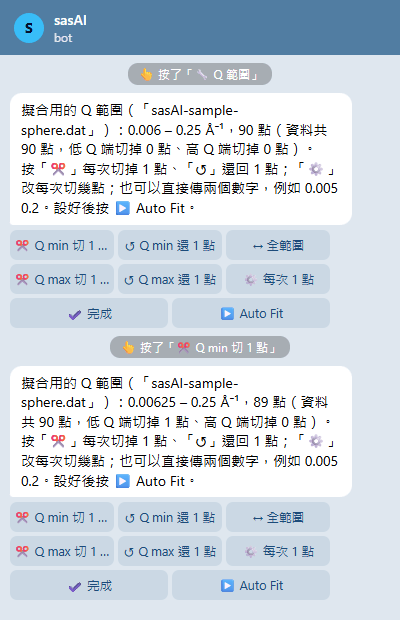
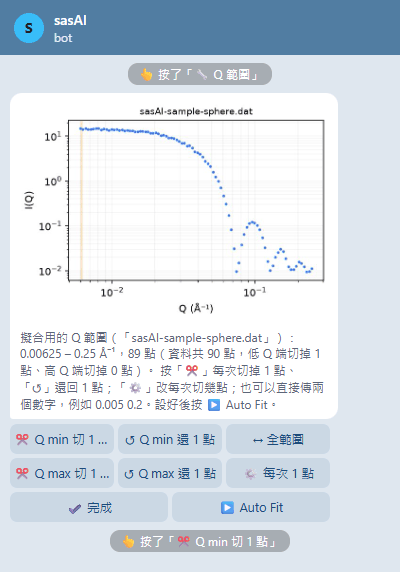
sasAI 2026-09-30d-v0.1 tester pages

diff --git a/start.html b/start.html
@@ -254,7 +254,7 @@ html.js nav.toc { display: none; }
       <tr><td class="num"><span class="m">2</span></td><td class="k" lang="en">↻ Restart</td><td class="k" lang="zh-Hant">↻ Restart</td><td lang="en">Clear everything and start a new sample.</td><td lang="zh-Hant">全部清掉，換一個新樣品。</td></tr>
       <tr><td class="num"><span class="m">3</span></td><td class="k" lang="en" data-tabs="left_tabs">Batch · AI Config · Report · 🔑 Keys</td><td class="k" lang="zh-Hant" data-tabs="left_tabs">Batch · AI Config · Report · 🔑 Keys</td><td lang="en"><b class="ui">Batch</b>: the files you loaded. When you click Auto-Fit, the ticked files are fitted: one ticked file is a normal fit, several are a batch. <b class="ui">AI Config</b>: settings for the AI, voice and Telegram. <b class="ui">Report</b>: write and save the report. <b class="ui">Keys</b>: API keys and tokens, kept only on this computer.</td><td lang="zh-Hant"><b class="ui">Batch</b>：你載入的檔案。按 Auto-Fit 時，會擬合打勾的檔案：只勾一個是一般擬合，勾多個就是批次。<b class="ui">AI Config</b>：AI、語音和 Telegram 的設定。<b class="ui">Report</b>：產生並儲存報告。<b class="ui">Keys</b>：API 金鑰和 Token，只存在這台電腦。</td></tr>
       <tr><td class="num"><span class="m">4</span></td><td class="k" lang="en">AI:</td><td class="k" lang="zh-Hant">AI:</td><td lang="en">Which AI answers. <b class="ui">Built-in</b> is the AI on your own computer. Under it: <b class="ui">SAS Model</b> (the model sasAI chose) and <b class="ui">chi2</b> (how closely it fits — near 1 is best).</td><td lang="zh-Hant">由哪個 AI 回答。<b class="ui">Built-in</b> 就是你自己電腦上的 AI。下面的 <b class="ui">SAS Model</b> 是 sasAI 選的模型，<b class="ui">chi2</b> 是擬合的好壞（越接近 1 越好）。</td></tr>
-      <tr><td class="num"><span class="m">5</span></td><td class="k" lang="en" data-tabs="plot_tabs">I(Q) / Fit · P(r) · 3D</td><td class="k" lang="zh-Hant" data-tabs="plot_tabs">I(Q) / Fit · P(r) · 3D</td><td lang="en">The plot: your data (dots) and the fitted model (line). The <b class="ui">P(r)</b> tab shows the distance distribution. The <b class="ui">3D</b> tab (chapter 11) appears only in a copy whose 3D model has passed its accuracy test.</td><td lang="zh-Hant">圖：你的數據（點）和擬合出的模型（線）。<b class="ui">P(r)</b> 分頁顯示距離分布。<b class="ui">3D</b> 分頁（第 11 章）只在 3D 模型通過準確度測試的版本裡出現。</td></tr>
+      <tr><td class="num"><span class="m">5</span></td><td class="k" lang="en" data-tabs="plot_tabs">I(Q) / Fit · P(r) · 3D</td><td class="k" lang="zh-Hant" data-tabs="plot_tabs">I(Q) / Fit · P(r) · 3D</td><td lang="en">The plot: your data (dots) and the fitted model (line). The <b class="ui">P(r)</b> tab shows the distance distribution. The <b class="ui">3D</b> tab (chapter 11) is a preview in this beta: it has not yet passed its accuracy test.</td><td lang="zh-Hant">圖：你的數據（點）和擬合出的模型（線）。<b class="ui">P(r)</b> 分頁顯示距離分布。<b class="ui">3D</b> 分頁（第 11 章）是這個封測版的預覽功能：還沒通過準確度測試。</td></tr>
       <tr><td class="num"><span class="m">6</span></td><td class="k" lang="en">▶ Auto-Fit</td><td class="k" lang="zh-Hant">▶ Auto-Fit</td><td lang="en">The main button: sasAI picks a model and fits it for you. <b>&gt;&gt; RUN FIT</b> fits a model you chose yourself, <b class="ui">STOP</b> stops. The same row also has <b class="ui">Web Search</b> (a switch: may sasAI use the internet?), <b class="ui">Compute/Plot</b> (draw a model without fitting) and <b class="ui">Export</b> (save results as CSV, DAT or JSON).</td><td lang="zh-Hant">最主要的按鈕：sasAI 幫你選模型、做擬合。<b>&gt;&gt; RUN FIT</b> 用你自己選的模型擬合，<b class="ui">STOP</b> 停止。同一列還有 <b class="ui">Web Search</b>（開關：sasAI 可不可以上網）、<b class="ui">Compute/Plot</b>（只畫模型、不擬合）和 <b class="ui">Export</b>（把結果存成 CSV、DAT 或 JSON）。</td></tr>
       <tr><td class="num"><span class="m">7</span></td><td class="k" lang="en" data-tabs="fit_tabs">Model · Fit Options · Polydispersity · Magnetism · Combine Models</td><td class="k" lang="zh-Hant" data-tabs="fit_tabs">Model · Fit Options · Polydispersity · Magnetism · Combine Models</td><td lang="en">Choose and adjust a model by hand — for experienced users.</td><td lang="zh-Hant">自己選模型、調參數——給有經驗的使用者。</td></tr>
       <tr><td class="num"><span class="m">8</span></td><td class="k" lang="en" data-tabs="right_tabs">Flow · S-EVO · KB · Refs · Display · Fit Log</td><td class="k" lang="zh-Hant" data-tabs="right_tabs">Flow · S-EVO · KB · Refs · Display · Fit Log</td><td lang="en"><b class="ui">Flow</b>: the analysis stages, live. <b class="ui">S-EVO</b>: sasAI's growing knowledge library. <b>KB</b>: your past fits. <b class="ui">Refs</b>: literature for this sample. <b class="ui">Display</b>: font sizes. <b class="ui">Fit Log</b>: every fitting step. The row of tabs scrolls: use its small arrows to reach the last ones.</td><td lang="zh-Hant"><b class="ui">Flow</b>：分析各階段的即時進度。<b class="ui">S-EVO</b>：sasAI 越用越豐富的知識庫。<b>KB</b>：你過去的擬合。<b class="ui">Refs</b>：這個樣品的相關文獻。<b class="ui">Display</b>：字體大小。<b class="ui">Fit Log</b>：每一步擬合的紀錄。這一排分頁可以捲動，用旁邊的小箭頭切到最後幾個。</td></tr>
@@ -506,8 +506,8 @@ html.js nav.toc { display: none; }
     <h3 class="part" lang="en">Analyze data from your phone: step by step</h3><h3 class="part" lang="zh-Hant">用手機分析數據：一步一步來</h3>
     <table class="keys prov">
       <tr><td class="k" lang="en">1. Send the data file</td><td class="k" lang="zh-Hant">1. 傳數據檔</td><td lang="en">In the bot's chat tap <b>📎</b> → <b>File</b> and send your data file (on Android see “Sending the data file from an Android phone” above). sasAI answers <i>“✅ Loaded “name” (90 pts) into Batch. What next?”</i> with buttons.</td><td lang="zh-Hant">在機器人的聊天室點 <b>📎</b> → <b>檔案</b>，傳你的數據檔（Android 手機請看上面的「用 Android 手機傳數據檔」）。sasAI 會回「<i>已載入「檔名」（90 點）到 Batch。接下來要做什麼？</i>」，下面有按鈕。</td></tr>
-      <tr><td class="k" lang="en">2. Optional: set the fitting q range</td><td class="k" lang="zh-Hant">2. 選擇性：設定擬合的 Q 範圍</td><td lang="en">Tap <b>📈 I(Q) plot</b> first: before any fit it sends the data itself and, if the program sees a part that should be left out (a beamstop shadow at low q, Bragg peaks or a background upturn at high q), shades it, says why and offers <b>✅ Use the suggested range</b>. To set it yourself tap <b>🔧 Q range</b>. It shows the window the fit will use, how many points that is and how many were cut at each end. <b>✂ Q min</b> / <b>✂ Q max</b> cut points off that end, <b>↺</b> gives them back, <b>⚙</b> chooses how many points one tap moves, <b>↔ Full range</b> restores everything. Or send two numbers such as <code>0.005 0.2</code>.</td><td lang="zh-Hant">先按 <b>📈 I(Q) 圖</b>：還沒擬合時，它會傳數據本身的圖；如果程式看到應該排除的範圍（低 Q 的 beamstop 陰影、高 Q 的繞射峰或背景回升），會塗上顏色、說明原因，並給你 <b>✅ 套用建議的範圍</b>。要自己設就點 <b>🔧 Q 範圍</b>。它會顯示這次擬合要用的範圍、有幾個點、兩端各切掉幾點。<b>✂ Q min</b>／<b>✂ Q max</b> 把那一端切掉幾點，<b>↺</b> 還回來，<b>⚙</b> 選每按一次動幾點，<b>↔ 全範圍</b> 全部還原。也可以直接傳兩個數字，例如 <code>0.005 0.2</code>。</td></tr>
-      <tr><td class="k" lang="en">3. Tap ▶ Auto Fit</td><td class="k" lang="zh-Hant">3. 按 ▶ Auto Fit</td><td lang="en">If sasAI does not yet know what the sample is, it asks once: <i>“Before we start, briefly describe the sample (material, expected structure, what you want to know)?”</i> Answer in one sentence, for example <i>carbon powder, I want the particle size</i>. Then it starts: <i>“On it — analyzing “name”. One moment ⏳”</i>.</td><td lang="zh-Hant">如果 sasAI 還不知道樣品是什麼，會問你一次：「<i>開始前，請簡短描述這個樣品（材料、預期結構、你想知道什麼）？</i>」用一句話回答，例如「碳粉末，我想知道粒徑」。接著它會開始：「<i>好的，我開始自動分析「檔名」，稍等一下下 ⏳</i>」。</td></tr>
+      <tr><td class="k" lang="en">2. Optional: set the fitting q range</td><td class="k" lang="zh-Hant">2. 選擇性：設定擬合的 Q 範圍</td><td lang="en">Tap <b>📈 I(Q) plot</b> first: before any fit it sends the data itself and, if the program sees a part that should be left out (a beamstop shadow at low q, Bragg peaks or a background upturn at high q), shades it, says why and offers <b>✅ Use the suggested range</b>. To set it yourself tap <b>🔧 Q range</b>. It shows the window the fit will use, how many points that is and how many were cut at each end. <b>✂ Q min</b> / <b>✂ Q max</b> cut points off that end, <b>↺</b> gives them back, <b>⚙</b> chooses how many points one tap moves, <b>↔ Full range</b> restores everything. Or send two numbers such as <code>0.005 0.2</code>. If you do not choose a range at all, ▶ Auto Fit uses the one the program itself would fit (it cuts a beamstop shadow, Bragg peaks or a background upturn) and tells you what it cut.</td><td lang="zh-Hant">先按 <b>📈 I(Q) 圖</b>：還沒擬合時，它會傳數據本身的圖；如果程式看到應該排除的範圍（低 Q 的 beamstop 陰影、高 Q 的繞射峰或背景回升），會塗上顏色、說明原因，並給你 <b>✅ 套用建議的範圍</b>。要自己設就點 <b>🔧 Q 範圍</b>。它會顯示這次擬合要用的範圍、有幾個點、兩端各切掉幾點。<b>✂ Q min</b>／<b>✂ Q max</b> 把那一端切掉幾點，<b>↺</b> 還回來，<b>⚙</b> 選每按一次動幾點，<b>↔ 全範圍</b> 全部還原。也可以直接傳兩個數字，例如 <code>0.005 0.2</code>。如果你完全沒選範圍，▶ Auto Fit 會用程式自己會用的那個範圍（切掉 beamstop 陰影、繞射峰或背景回升），並告訴你切了哪裡。</td></tr>
+      <tr><td class="k" lang="en">3. Tap ▶ Auto Fit</td><td class="k" lang="zh-Hant">3. 按 ▶ Auto Fit</td><td lang="en">If sasAI does not yet know what the sample is, it asks once: <i>“Before we start, briefly describe the sample (material, expected structure, what you want to know)?”</i> Answer in one sentence, for example <i>carbon powder, I want the particle size</i>. If the file does not say whether its intensity is on an absolute scale (1/cm) or in arbitrary units, it asks once with buttons (absolute / arbitrary / not sure) — the answer decides whether volume fraction and molecular weight can be computed. Then it starts: <i>“On it — analyzing “name”. One moment ⏳”</i>.</td><td lang="zh-Hant">如果 sasAI 還不知道樣品是什麼，會問你一次：「<i>開始前，請簡短描述這個樣品（材料、預期結構、你想知道什麼）？</i>」用一句話回答，例如「碳粉末，我想知道粒徑」。如果檔案沒有寫強度是絕對強度（1/cm）還是任意單位，它會用按鈕問一次（絕對強度／任意單位／不確定）——答案決定能不能算體積分率和分子量。接著它會開始：「<i>好的，我開始自動分析「檔名」，稍等一下下 ⏳</i>」。</td></tr>
       <tr><td class="k" lang="en">4. Watch the progress line</td><td class="k" lang="zh-Hant">4. 看進度那一行</td><td lang="en">While it works, one line is edited in place with the stage and the time so far, for example <i>“⏳ fitting… (1:05 so far)”</i>, and at the end <i>“✅ Analysis done (2:10)”</i>. Tap <b>⏳ Progress</b> for the details, <b>📸 Current view</b> to see what is on the computer's screen right now (while something is running it is a short animation of about ten seconds), or <b>⏹ Stop</b> (or send <code>/stop</code>) to end it. A fit usually takes a few minutes.</td><td lang="zh-Hant">分析時，有一行訊息會原地更新階段和已經花的時間，例如「<i>⏳ 擬合中…（已 1:05）</i>」，結束時變成「<i>✅ 分析完成（用時 2:10）</i>」。按 <b>⏳ 目前進度</b> 看細節，按 <b>📸 目前畫面</b> 看電腦螢幕上現在的圖（有東西在跑的時候，傳來的是大約十秒的小動畫），按 <b>⏹ 停止</b>（或送出 <code>/stop</code>）可以中止。一次擬合通常要幾分鐘。</td></tr>
       <tr><td class="k" lang="en">5. Read the result</td><td class="k" lang="zh-Hant">5. 讀結果</td><td lang="en">The result message starts with the <b>bottom line</b>. If the data gave an answer it says what it can answer. If not, it says so plainly, then <b>Why</b> (in plain words) and <b>What would help</b>. After that come the model with how good the fit is (<i>a good fit / an acceptable fit / a poor fit</i>, with the reduced χ²) and the measurement warnings, which are listed but do not change the conclusion.</td><td lang="zh-Hant">結果訊息的第一行是<b>結論</b>。資料有答案時，它會說能回答什麼；沒有就直說沒有，接著是<b>原因</b>（用白話）和<b>怎麼辦</b>。後面是模型和擬合好壞（<i>擬合得很好／擬合尚可／擬合偏差大</i>，附 reduced χ²），再來是量測條件提醒——它們只是列出來，不會改變結論。</td></tr>
       <tr><td class="k" lang="en">6. Ask for more</td><td class="k" lang="zh-Hant">6. 再看更多</td><td lang="en">Under the result are buttons: <b>📋 Results</b> (the message again), <b>📈 I(Q) plot</b> and <b>📉 P(r) plot</b> (sent as pictures; the P(r) one only appears when the data supports it), <b>📄 Fit report</b> (a PDF file), <b>🔧 Q range</b> to change the window and fit again with <b>▶ Auto Fit</b>. <b>🧊 3D Shape</b> appears only in a build that has it and only when a radius of gyration could be read from the data; it first asks how many runs (1 to 9): one run is the fastest, and from two runs on the runs can be compared with each other.</td><td lang="zh-Hant">結果下面有按鈕：<b>📋 數據結果</b>（再看一次這則訊息）、<b>📈 I(Q) 圖</b>和<b>📉 P(r) 圖</b>（以圖片傳來；P(r) 要資料撐得起才有）、<b>📄 擬合報告</b>（一個 PDF 檔）、<b>🔧 Q 範圍</b>改範圍後再按 <b>▶ Auto Fit</b> 重新擬合。<b>🧊 3D Shape</b> 只有在這個版本有開放、而且資料讀得出迴轉半徑時才會出現；按了會先問要跑幾次（1 到 9）：1 次最快，2 次以上才能比較各次之間是否一致。</td></tr>
@@ -517,11 +517,11 @@ html.js nav.toc { display: none; }
     <div class="phones"><figure><div class="shot"><a class="zoom" lang="en" href="img/tg-upload-en.png" target="_blank" rel="noopener noreferrer"><img src="img/tg-upload-en.png" width="400" height="332" alt="Telegram: the data file sent, sasAI's 'Loaded' reply and the first buttons" loading="lazy"></a><a class="zoom" lang="zh-Hant" href="img/tg-upload-zh-Hant.png" target="_blank" rel="noopener noreferrer"><img src="img/tg-upload-zh-Hant.png" width="400" height="332" alt="Telegram：傳出數據檔、sasAI 回「已載入」和第一排按鈕" loading="lazy"></a></div><figcaption lang="en"><b>1 · Upload.</b> Tap 📎 → <b>File</b> and send your data file. sasAI replies that it is loaded and shows the buttons for what you can do next. The same buttons come back whenever you send <code>/menu</code>.</figcaption><figcaption lang="zh-Hant"><b>1 · 上傳。</b>點 📎 → <b>檔案</b>，把數據檔傳出去。sasAI 回「已載入」，下面就是接下來能做的事的按鈕。任何時候送出 <code>/menu</code>，同一組按鈕就會再出現。</figcaption></figure>
 <figure><div class="shot"><a class="zoom" lang="en" href="img/tg-menu-en.png" target="_blank" rel="noopener noreferrer"><img src="img/tg-menu-en.png" width="400" height="332" alt="Telegram: /menu brings the buttons back" loading="lazy"></a><a class="zoom" lang="zh-Hant" href="img/tg-menu-zh-Hant.png" target="_blank" rel="noopener noreferrer"><img src="img/tg-menu-zh-Hant.png" width="400" height="332" alt="Telegram：/menu 叫出按鈕" loading="lazy"></a></div><figcaption lang="en"><b>2 · The menu.</b> Type <code>/menu</code> (or pick it from Telegram's ☰ command list) — the buttons that fit the current state appear under the message.</figcaption><figcaption lang="zh-Hant"><b>2 · 選單。</b>打 <code>/menu</code>（或從 Telegram 的 ☰ 指令清單選）——符合目前狀態的按鈕就出現在訊息下面。</figcaption></figure>
 <figure><div class="shot"><a class="zoom" lang="en" href="img/tg-iq-data-en.png" target="_blank" rel="noopener noreferrer"><img src="img/tg-iq-data-en.png" width="400" height="614" alt="Telegram: the I(Q) picture before any fit, with the suggested q range" loading="lazy"></a><a class="zoom" lang="zh-Hant" href="img/tg-iq-data-zh-Hant.png" target="_blank" rel="noopener noreferrer"><img src="img/tg-iq-data-zh-Hant.png" width="400" height="595" alt="Telegram：還沒擬合時的 I(Q) 圖和建議的 Q 範圍" loading="lazy"></a></div><figcaption lang="en"><b>3 · Look at the data first.</b> 📈 <b>I(Q) plot</b> before any fit sends the data itself and says whether part of it should be left out (a beamstop shadow, Bragg peaks). Here nothing needs cutting.</figcaption><figcaption lang="zh-Hant"><b>3 · 先看數據。</b>還沒擬合時按 📈 <b>I(Q) 圖</b>，它把數據本身傳給你，並說有沒有該切掉的範圍（beamstop 陰影、繞射峰）。這份不用切。</figcaption></figure>
-<figure><div class="shot"><a class="zoom" lang="en" href="img/tg-qrange-en.png" target="_blank" rel="noopener noreferrer"><img src="img/tg-qrange-en.png" width="400" height="620" alt="Telegram: the Q range panel; one tap on ✂ Q min cut one point" loading="lazy"></a><a class="zoom" lang="zh-Hant" href="img/tg-qrange-zh-Hant.png" target="_blank" rel="noopener noreferrer"><img src="img/tg-qrange-zh-Hant.png" width="400" height="620" alt="Telegram：Q 範圍面板；按一下 ✂ Q min 切掉了 1 點" loading="lazy"></a></div><figcaption lang="en"><b>4 · Change the q range.</b> 🔧 <b>Q range</b> shows the window the fit will use. Each ✂ tap cuts points off that end (↺ gives them back), ⚙ changes how many points one tap moves, ↔ restores the whole range. Or send two numbers such as <code>0.005 0.2</code>. The second message is after one tap on ✂ Q min.</figcaption><figcaption lang="zh-Hant"><b>4 · 改 Q 範圍。</b>🔧 <b>Q 範圍</b> 顯示擬合會用的範圍。每按一次 ✂ 就從那一端切掉幾點（↺ 還回去），⚙ 改每次切幾點，↔ 回到全範圍；也可以直接傳兩個數字，例如 <code>0.005 0.2</code>。第二則是按了一次 ✂ Q min 之後的樣子。</figcaption></figure>
-<figure><div class="shot"><a class="zoom" lang="en" href="img/tg-progress-en.png" target="_blank" rel="noopener noreferrer"><img src="img/tg-progress-en.png" width="400" height="454" alt="Telegram: the start message with the q window, and the progress line" loading="lazy"></a><a class="zoom" lang="zh-Hant" href="img/tg-progress-zh-Hant.png" target="_blank" rel="noopener noreferrer"><img src="img/tg-progress-zh-Hant.png" width="400" height="473" alt="Telegram：開始訊息（含 Q 範圍）和進度那一行" loading="lazy"></a></div><figcaption lang="en"><b>5 · Auto Fit.</b> ▶ <b>Auto Fit</b> starts the analysis. The first message states the q window in use (including the points you cut); below it one line keeps updating in place with the stage, the candidate models done, the best so far, the lowest χ² of the fits running and the time. No pictures are pushed while it runs; tap 📸 Current view to see the screen.</figcaption><figcaption lang="zh-Hant"><b>5 · Auto Fit。</b>▶ <b>Auto Fit</b> 開始分析。第一則寫出這次用的 Q 範圍（包括你切掉的點）；它下面那一行會原地一直更新：階段、做完幾個候選模型、目前最好的是哪個、正在跑的擬合目前最低的 χ²、已用時間。跑的時候不會推圖；想看畫面就按 📸 目前畫面。</figcaption></figure>
+<figure><div class="shot"><a class="zoom" lang="en" href="img/tg-qrange-en.png" target="_blank" rel="noopener noreferrer"><img src="img/tg-qrange-en.png" width="400" height="620" alt="Telegram: the Q range panel; one tap on ✂ Q min cut one point" loading="lazy"></a><a class="zoom" lang="zh-Hant" href="img/tg-qrange-zh-Hant.png" target="_blank" rel="noopener noreferrer"><img src="img/tg-qrange-zh-Hant.png" width="400" height="620" alt="Telegram：Q 範圍面板；按一下 ✂ Q min 切掉了 1 點" loading="lazy"></a></div><figcaption lang="en"><b>4 · Change the q range.</b> 🔧 <b>Q range</b> shows the window the fit will use. Each ✂ tap cuts points off that end (↺ gives them back), ⚙ changes how many points one tap moves, ↔ restores the whole range. Or send two numbers such as <code>0.005 0.2</code>. It is ONE message: the data with the part that will be left out shaded, the window in words and the buttons. Every tap on a button updates that same message, so you see the shading move. The picture is after one tap on ✂ Q min.</figcaption><figcaption lang="zh-Hant"><b>4 · 改 Q 範圍。</b>🔧 <b>Q 範圍</b> 顯示擬合會用的範圍。每按一次 ✂ 就從那一端切掉幾點（↺ 還回去），⚙ 改每次切幾點，↔ 回到全範圍；也可以直接傳兩個數字，例如 <code>0.005 0.2</code>。它是同一則訊息：數據圖、將被切掉的部分塗了色、文字說明和按鈕都在裡面；每按一次按鈕，就原地更新這一則，你直接看到塗色範圍在動。這張是按了一次 ✂ Q min 之後的樣子。</figcaption></figure>
+<figure><div class="shot"><a class="zoom" lang="en" href="img/tg-progress-en.png" target="_blank" rel="noopener noreferrer"><img src="img/tg-progress-en.png" width="400" height="454" alt="Telegram: the start message with the q window, and the progress line" loading="lazy"></a><a class="zoom" lang="zh-Hant" href="img/tg-progress-zh-Hant.png" target="_blank" rel="noopener noreferrer"><img src="img/tg-progress-zh-Hant.png" width="400" height="473" alt="Telegram：開始訊息（含 Q 範圍）和進度那一行" loading="lazy"></a></div><figcaption lang="en"><b>5 · Auto Fit.</b> ▶ <b>Auto Fit</b> starts the analysis. The first message states the q window in use (including the points you cut); below it one line keeps updating in place with the stage, the candidate models done, the best so far, the lowest χ² of the fits running and the time. Under it one picture of the fit is replaced in place whenever the screen changes (the chat is never filled with new pictures); tap 📸 Current view for a snapshot on request.</figcaption><figcaption lang="zh-Hant"><b>5 · Auto Fit。</b>▶ <b>Auto Fit</b> 開始分析。第一則寫出這次用的 Q 範圍（包括你切掉的點）；它下面那一行會原地一直更新：階段、做完幾個候選模型、目前最好的是哪個、正在跑的擬合目前最低的 χ²、已用時間。它下面有一張擬合圖，畫面有變化時就原地換成最新的那一張（對話不會被一堆新圖洗版）；想要即時截圖就按 📸 目前畫面。</figcaption></figure>
 <figure><div class="shot"><a class="zoom" lang="en" href="img/tg-result-en.png" target="_blank" rel="noopener noreferrer"><img src="img/tg-result-en.png" width="400" height="509" alt="Telegram: the result message with the result buttons" loading="lazy"></a><a class="zoom" lang="zh-Hant" href="img/tg-result-zh-Hant.png" target="_blank" rel="noopener noreferrer"><img src="img/tg-result-zh-Hant.png" width="400" height="470" alt="Telegram：結果訊息和結果的按鈕" loading="lazy"></a></div><figcaption lang="en"><b>6 · The result.</b> The conclusion comes first, then why, then the model and how good the fit is. Under it: 📋 Results, 📈 I(Q) plot, 📉 P(r) plot (when the data supports it), 📄 Fit report, 🔧 Q range, ▶ Auto Fit again.</figcaption><figcaption lang="zh-Hant"><b>6 · 結果。</b>先是結論，再是原因，再是模型和擬合好壞。下面有：📋 數據結果、📈 I(Q) 圖、📉 P(r) 圖（資料撐得起才有）、📄 擬合報告、🔧 Q 範圍、再按一次 ▶ Auto Fit。</figcaption></figure>
 <figure><div class="shot"><a class="zoom" lang="en" href="img/tg-report-en.png" target="_blank" rel="noopener noreferrer"><img src="img/tg-report-en.png" width="400" height="332" alt="Telegram: the PDF report arrives as a file" loading="lazy"></a><a class="zoom" lang="zh-Hant" href="img/tg-report-zh-Hant.png" target="_blank" rel="noopener noreferrer"><img src="img/tg-report-zh-Hant.png" width="400" height="332" alt="Telegram：PDF 報告以檔案送來" loading="lazy"></a></div><figcaption lang="en"><b>7 · Download the report.</b> 📄 <b>Fit report</b> sends the PDF as a file: tap it in Telegram to open or save it. Plots arrive as pictures the same way.</figcaption><figcaption lang="zh-Hant"><b>7 · 下載報告。</b>📄 <b>擬合報告</b> 把 PDF 當檔案傳給你，在 Telegram 裡點它就能開啟或儲存。圖也是這樣以圖片傳來。</figcaption></figure>
-<figure><div class="shot"><a class="zoom" lang="en" href="img/tg-3d-runs-en.png" target="_blank" rel="noopener noreferrer"><img src="img/tg-3d-runs-en.png" width="400" height="332" alt="Telegram: 3D Shape asks how many runs" loading="lazy"></a><a class="zoom" lang="zh-Hant" href="img/tg-3d-runs-zh-Hant.png" target="_blank" rel="noopener noreferrer"><img src="img/tg-3d-runs-zh-Hant.png" width="400" height="332" alt="Telegram：3D Shape 先問要跑幾次" loading="lazy"></a></div><figcaption lang="en"><b>3D.</b> 🧊 <b>3D Shape</b> (only in a copy where the 3D feature is open) first asks how many runs, 1 to 9; the picture comes back when it is done.</figcaption><figcaption lang="zh-Hant"><b>3D。</b>🧊 <b>3D Shape</b>（3D 功能有開放的版本才有）先問要跑幾次（1 到 9），跑完把圖傳回來。</figcaption></figure>
+<figure><div class="shot"><a class="zoom" lang="en" href="img/tg-3d-runs-en.png" target="_blank" rel="noopener noreferrer"><img src="img/tg-3d-runs-en.png" width="400" height="332" alt="Telegram: 3D Shape asks how many runs" loading="lazy"></a><a class="zoom" lang="zh-Hant" href="img/tg-3d-runs-zh-Hant.png" target="_blank" rel="noopener noreferrer"><img src="img/tg-3d-runs-zh-Hant.png" width="400" height="332" alt="Telegram：3D Shape 先問要跑幾次" loading="lazy"></a></div><figcaption lang="en"><b>3D.</b> 🧊 <b>3D Shape</b> (a preview in this beta) first asks how many runs, 1 to 9; the picture comes back when it is done.</figcaption><figcaption lang="zh-Hant"><b>3D。</b>🧊 <b>3D Shape</b>（這個封測版的預覽功能）先問要跑幾次（1 到 9），跑完把圖傳回來。</figcaption></figure>
 <figure><div class="shot"><a class="zoom" lang="en" href="img/tg-restart-en.png" target="_blank" rel="noopener noreferrer"><img src="img/tg-restart-en.png" width="400" height="332" alt="Telegram: /restart asks before clearing" loading="lazy"></a><a class="zoom" lang="zh-Hant" href="img/tg-restart-zh-Hant.png" target="_blank" rel="noopener noreferrer"><img src="img/tg-restart-zh-Hant.png" width="400" height="332" alt="Telegram：/restart 會先問" loading="lazy"></a></div><figcaption lang="en"><b>8 · Start over.</b> <code>/restart</code> (or 🔄) asks first and says what it clears; your files on the computer are untouched.</figcaption><figcaption lang="zh-Hant"><b>8 · 重新開始。</b><code>/restart</code>（或 🔄）會先問、並說清楚會清掉什麼；電腦上的檔案不會動。</figcaption></figure></div>
     <h3 class="part" lang="en">Every button</h3><h3 class="part" lang="zh-Hant">每個按鈕的意思</h3>
     <table class="keys prov">
@@ -542,7 +542,7 @@ html.js nav.toc { display: none; }
 <tr><td class="k" lang="en" data-button="status">⏳ Progress</td><td class="k" lang="zh-Hant" data-button="status">⏳ 目前進度</td><td lang="en">What the running analysis is doing right now. <i>(while running)</i></td><td lang="zh-Hant">正在跑的分析現在到哪裡。<i>（分析進行中）</i></td></tr>
 <tr><td class="k" lang="en" data-button="view">📸 Current view</td><td class="k" lang="zh-Hant" data-button="view">📸 目前畫面</td><td lang="en">A picture of what is on the computer's screen now (a short animation while something is running). <i>(while running)</i></td><td lang="zh-Hant">電腦螢幕上現在的畫面（有東西在跑時是一小段動畫）。<i>（分析進行中）</i></td></tr>
 <tr><td class="k" lang="en" data-button="stop">⏹ Stop</td><td class="k" lang="zh-Hant" data-button="stop">⏹ 停止</td><td lang="en">Stops the running analysis (also /stop). <i>(while running)</i></td><td lang="zh-Hant">停止正在跑的分析（也可以打 /stop）。<i>（分析進行中）</i></td></tr>
-<tr><td class="k" lang="en" data-button="shape3d">🧊 3D Shape</td><td class="k" lang="zh-Hant" data-button="shape3d">🧊 3D Shape</td><td lang="en">The 3D bead-model reconstruction; asks how many runs first. <i>(data loaded, 3D feature open)</i></td><td lang="zh-Hant">3D 珠子模型重建，先問跑幾次。<i>（有數據且 3D 功能開放）</i></td></tr>
+<tr><td class="k" lang="en" data-button="shape3d">🧊 3D Shape</td><td class="k" lang="zh-Hant" data-button="shape3d">🧊 3D Shape</td><td lang="en">The 3D bead-model reconstruction; asks how many runs first. <i>(data loaded, a preview feature)</i></td><td lang="zh-Hant">3D 珠子模型重建，先問跑幾次。<i>（有數據時（預覽功能））</i></td></tr>
 <tr><td class="k" lang="en" data-button="conditions">📐 Conditions</td><td class="k" lang="zh-Hant" data-button="conditions">📐 量測條件</td><td lang="en">Tell sasAI the measurement conditions (temperature, concentration…) that go into the report. <i>(data loaded)</i></td><td lang="zh-Hant">告訴 sasAI 量測條件（溫度、濃度…），會寫進報告。<i>（有數據時）</i></td></tr>
 <tr><td class="k" lang="en" data-button="model">🤖 AI model</td><td class="k" lang="zh-Hant" data-button="model">🤖 AI 模型</td><td lang="en">Choose which AI answers: the built-in model or a cloud model you set up (also /model). <i>(always)</i></td><td lang="zh-Hant">選哪個 AI 回答：內建模型或你設定的雲端模型（也可以打 /model）。<i>（任何時候）</i></td></tr>
 <tr><td class="k" lang="en" data-button="help">📖 Guide</td><td class="k" lang="zh-Hant" data-button="help">📖 說明書</td><td lang="en">Opens this chapter of the guide (also /help). <i>(always)</i></td><td lang="zh-Hant">打開說明書的這一章（也可以打 /help）。<i>（任何時候）</i></td></tr>
@@ -779,23 +779,23 @@ html.js nav.toc { display: none; }
   <!-- ─────────────────────────── 11. 3D shape (preview) ─────────────────────────── -->
   <section class="card" id="shape3d">
     <h2><span class="n">11</span><span lang="en">3D shape modelling</span><span lang="zh-Hant">3D 形狀建模</span><span class="badge" lang="en">Preview</span><span class="badge" lang="zh-Hant">預覽</span></h2>
-    <p class="lead" lang="en">3D shape modelling is one of sasAI's features. It builds a low-resolution 3D bead model of a particle from its scattering curve, the same kind of model that DAMMIF and DAMMIN make in the ATSAS package, so that sasAI covers more of what SAS data processing needs. It is switched off in this beta until it passes its own accuracy test. This chapter shows what it will do and how to read it.</p><p class="lead" lang="zh-Hant">3D 形狀建模是 sasAI 的功能之一。它從散射曲線建出粒子的低解析度 3D 珠子模型，和 ATSAS 套件裡 DAMMIF、DAMMIN 做的是同一類模型，讓 sasAI 更貼近 SAS 數據處理的需求。它在這個封測版裡是關閉的，要先通過自己的準確度測試才會開放。這一章說明它會做什麼、要怎麼看。</p>
+    <p class="lead" lang="en">3D shape modelling is one of sasAI's features. It builds a low-resolution 3D bead model of a particle from its scattering curve, the same kind of model that DAMMIF and DAMMIN make in the ATSAS package, so that sasAI covers more of what SAS data processing needs. In this beta it is open as a <b>preview</b>: it has not yet passed its own accuracy test on every reference case (below), so read its result as a first look, not a measurement. The tab and the messages say <b>PREVIEW</b>.</p><p class="lead" lang="zh-Hant">3D 形狀建模是 sasAI 的功能之一。它從散射曲線建出粒子的低解析度 3D 珠子模型，和 ATSAS 套件裡 DAMMIF、DAMMIN 做的是同一類模型，讓 sasAI 更貼近 SAS 數據處理的需求。它在這個封測版裡是<b>預覽</b>開放：還沒有在每一個參考案例上通過自己的準確度測試（見下），所以結果請當成初步參考，不是量測值。分頁和訊息上都會標 <b>PREVIEW</b>。</p>
 
-    <h3 class="part" lang="en">The bar it has to clear</h3><h3 class="part" lang="zh-Hant">它要先通過的關卡</h3>
-    <p class="lead" lang="en">The <b class="ui">3D</b> tab (beside <b class="ui">P(r)</b> above the main plot) appears in your copy only after the model passes an accuracy test on every one of our reference cases from the SASBDB database, where a published reference model exists to compare with. The test runs on the same path your copy uses, not on a research script. On every case all three counts must be met:</p><p class="lead" lang="zh-Hant">主畫面上方、<b class="ui">P(r)</b> 旁邊的 <b class="ui">3D</b> 分頁，要等模型通過測試才會出現在你的程式裡：對我們從 SASBDB 資料庫選出的每一個參考案例，拿已發表的參考模型來比。測試是在你的程式實際使用的那條路徑上做的，不是用研究用的腳本。每個案例，這三項都要達到：</p>
+    <h3 class="part" lang="en">The bar it has to clear</h3><h3 class="part" lang="zh-Hant">它要通過的關卡</h3>
+    <p class="lead" lang="en">The <b class="ui">3D</b> tab (beside <b class="ui">P(r)</b> above the main plot) is normally opened only after the model passes an accuracy test on every one of our reference cases from the SASBDB database, where a published reference model exists to compare with. The test runs on the same path your copy uses, not on a research script. On every case all three counts must be met:</p><p class="lead" lang="zh-Hant">主畫面上方、<b class="ui">P(r)</b> 旁邊的 <b class="ui">3D</b> 分頁，照規定要等模型通過測試才開放：對我們從 SASBDB 資料庫選出的每一個參考案例，拿已發表的參考模型來比。測試是在你的程式實際使用的那條路徑上做的，不是用研究用的腳本。每個案例，這三項都要達到：</p>
     <table class="keys">
       <tr><td class="k" lang="en">Fit to the data (χ²)</td><td class="k" lang="zh-Hant">貼合數據（χ²）</td><td lang="en">within <b data-fact="features._CHI2_TOL" data-scale="100">3</b> % of the reference model's</td><td lang="zh-Hant">在參考模型的 <b data-fact="features._CHI2_TOL" data-scale="100">3</b> % 以內</td></tr>
-      <tr><td class="k" lang="en">Shape (NSD to the known structure)</td><td class="k" lang="zh-Hant">形狀（和已知結構的 NSD）</td><td lang="en">not more than <b data-fact="features._NSD_TOL">0.1</b> worse</td><td lang="zh-Hant">差距不超過 <b data-fact="features._NSD_TOL">0.1</b></td></tr>
-      <tr><td class="k" lang="en">Largest size (Dmax)</td><td class="k" lang="zh-Hant">最大尺寸（Dmax）</td><td lang="en">within <b data-fact="features._DMAX_TOL" data-scale="100">10</b> % of the reference model's</td><td lang="zh-Hant">在參考模型的 <b data-fact="features._DMAX_TOL" data-scale="100">10</b> % 以內</td></tr>
+      <tr><td class="k" lang="en">Shape (NSD to the known structure)</td><td class="k" lang="zh-Hant">形狀（和已知結構的 NSD）</td><td lang="en">within <b data-fact="features._NSD_TOL" data-scale="100">3</b> % of the reference model's</td><td lang="zh-Hant">在參考模型的 <b data-fact="features._NSD_TOL" data-scale="100">3</b> % 以內</td></tr>
+      <tr><td class="k" lang="en">Largest size (Dmax)</td><td class="k" lang="zh-Hant">最大尺寸（Dmax）</td><td lang="en">within <b data-fact="features._DMAX_TOL" data-scale="100">3</b> % of the reference model's</td><td lang="zh-Hant">在參考模型的 <b data-fact="features._DMAX_TOL" data-scale="100">3</b> % 以內</td></tr>
     </table>
-    <p class="lead" lang="en">Today it has not passed on the path your copy uses, so it stays closed. When it opens it will also give an honest reliability score from your own repeated runs, a time-left estimate from the algorithm's own stopping rule, and it will refuse to run when your curve cannot support a shape. We report only what the test measures.</p><p class="lead" lang="zh-Hant">目前它還沒有在你的程式實際使用的路徑上通過，所以維持關閉。開放之後，它會用你自己多次重建的結果給誠實的可靠度分數、用演算法自己的停止規則估計剩餘時間，並在曲線撐不起一個形狀時拒絕執行。我們只宣稱測試量得到的東西。</p>
+    <p class="lead" lang="en">On the path your copy uses it has been measured on 11 reference cases (3 October 2026): the fit to the data was within the 3 % tolerance in all 11, the shape (NSD) in 5 of the 8 cases that have a known structure, and the largest size (Dmax) in only 3 of 11 — it tends to come out too long, by up to 30 %. All three counts were met in 2 of the 11 cases, so it has not passed; we opened it as a preview anyway so that you can try it and tell us where it fails. It gives an honest reliability score from your own repeated runs, a time-left estimate from the algorithm's own stopping rule, and it will refuse to run when your curve cannot support a shape. We report only what the test measures.</p><p class="lead" lang="zh-Hant">我們在你的程式實際使用的路徑上量過 11 個參考案例（2026 年 10 月 3 日）：貼合數據 11 個都在 3 % 容許範圍內，形狀（NSD）在有已知結構的 8 個案例裡有 5 個達標，最大尺寸（Dmax）11 個裡只有 3 個達標——它容易算得偏長，最多偏 30 %。三項都達標的只有 11 個裡的 2 個，所以還沒有通過；我們還是先以預覽開放，讓你試用、告訴我們它哪裡不行。它會用你自己多次重建的結果給誠實的可靠度分數、用演算法自己的停止規則估計剩餘時間，並在曲線撐不起一個形狀時拒絕執行。我們只宣稱測試量得到的東西。</p>
 
-    <h3 class="part" lang="en">How to use it when it opens</h3><h3 class="part" lang="zh-Hant">開放之後怎麼用</h3>
+    <h3 class="part" lang="en">How to use it</h3><h3 class="part" lang="zh-Hant">怎麼用</h3>
     <ol class="steps">
       <li class="step"><div><h4 lang="en">Load a clean curve of one kind of particle</h4><h4 lang="zh-Hant">載入一條乾淨的單一種粒子的曲線</h4>
         <p lang="en">A dilute, uniform sample, for example a protein in solution. A scattering curve cannot tell a shape from its mirror image, so the model may be the mirror image of the real particle.</p><p lang="zh-Hant">稀薄、均勻的樣品，例如溶液中的蛋白質。散射曲線分不出一個形狀和它的鏡像，所以建出來的模型可能是真實粒子的鏡像。</p></div></li>
       <li class="step"><div><h4 lang="en">Open the 3D tab</h4><h4 lang="zh-Hant">點 3D 分頁</h4>
-        <p lang="en">First sasAI checks that your curve can support a shape. It needs a Guinier Rg with its uncertainty and at least <b data-fact="grounding._MIN_CLEAN_POINTS">20</b> points in the usable q range, which ends at the smaller of <b data-fact="shape3d._QRG_MAX">8</b>/Rg and <b data-fact="shape3d._Q_BEAD_MAX">0.3</b> 1/Å (the usual guidance in the field). If it cannot, the tab says why instead of guessing. The one-line title shows the Rg, the points and the resolution used; rest the mouse on it for the full method and any warnings.</p><p lang="zh-Hant">sasAI 會先確認你的曲線撐得起一個形狀。它需要有不確定度的 Guinier Rg，以及可用 q 範圍內至少 <b data-fact="grounding._MIN_CLEAN_POINTS">20</b> 個點；這個範圍到 <b data-fact="shape3d._QRG_MAX">8</b>/Rg 和 <b data-fact="shape3d._Q_BEAD_MAX">0.3</b> 1/Å 之中比較小的那個為止（這個領域通用的建議）。做不到的話，分頁會告訴你原因，不會亂猜。最上面那一行是這次用的 Rg、點數和解析度；滑鼠停在上面會跳出完整的方法說明和警告。</p></div></li>
+        <p lang="en">First sasAI checks that your curve can support a shape. It needs a radius of gyration — the Guinier Rg with its uncertainty or, when the Guinier region is not resolved (the intensity keeps rising toward low q), the P(r) radius the reading stage already measured, with an assumed ±25 % that the title line shows — and at least <b data-fact="grounding._MIN_CLEAN_POINTS">20</b> points in the usable q range, which ends at the smaller of <b data-fact="shape3d._QRG_MAX">8</b>/Rg and <b data-fact="shape3d._Q_BEAD_MAX">0.3</b> 1/Å (the usual guidance in the field). If it cannot, the tab says why instead of guessing. The one-line title shows the Rg, the points and the resolution used; rest the mouse on it for the full method and any warnings.</p><p lang="zh-Hant">sasAI 會先確認你的曲線撐得起一個形狀。它需要一個迴轉半徑——有不確定度的 Guinier Rg；Guinier 區讀不出來（強度一路往低 q 上升）時，就用讀懂數據那一步已經量好的 P(r) 半徑，並假設 ±25 % 的不確定度（標題那一行會寫出來）——以及可用 q 範圍內至少 <b data-fact="grounding._MIN_CLEAN_POINTS">20</b> 個點；這個範圍到 <b data-fact="shape3d._QRG_MAX">8</b>/Rg 和 <b data-fact="shape3d._Q_BEAD_MAX">0.3</b> 1/Å 之中比較小的那個為止（這個領域通用的建議）。做不到的話，分頁會告訴你原因，不會亂猜。最上面那一行是這次用的 Rg、點數和解析度；滑鼠停在上面會跳出完整的方法說明和警告。</p></div></li>
       <li class="step"><div><h4 lang="en">Choose the bead size</h4><h4 lang="zh-Hant">選珠子大小</h4>
         <p lang="en">The <b class="ui">Bead</b> bar decides how fine the model is. <b class="ui">Auto</b> is ticked at first: sasAI starts from a medium bead and makes it finer while the fit improves. To choose yourself, drag the bar or press <b>−</b> / <b>+</b> (this unticks Auto); the number beside the bar goes from 1 to <b data-fact="shape3d.SIZE_LEVELS">100</b>. <b>1</b> is the smallest bead that means anything for your data: a smaller one would change the computed curve by less than your data's own error, so it would cost time and show nothing more. This gives the finest shape and takes the longest. <b>100</b> is the largest bead that still shows what your curve can resolve (half its resolution, 2π/q_max): a rough shape in seconds. The line under the bar gives the bead size in Å and nm and how many beads that is; after one run it also says roughly how long a run takes. On our test computer, for a computer-made sphere, one run took about 5 seconds at 100, about 20 seconds at 71 and about a minute and a half at 41.</p><p lang="zh-Hant"><b class="ui">Bead</b> 這條拉桿決定模型有多細。一開始 <b class="ui">Auto</b> 是勾選的：sasAI 從中等大小的珠子開始，只要擬合還有改善就繼續變細。想自己選，就拖動拉桿或按 <b>−</b>／<b>+</b>（Auto 會自動取消勾選）；拉桿旁邊的數字從 1 到 <b data-fact="shape3d.SIZE_LEVELS">100</b>。<b>1</b> 是對你的數據還有意義的最小珠子：再小，它對計算曲線的影響就比數據本身的誤差還小，只花時間，看不到更多東西。這一端的外形最細，也最花時間。<b>100</b> 是還能呈現你的曲線分辨得出的特徵的最大珠子（解析度 2π/q_max 的一半）：幾秒鐘就有一個粗略外形。拉桿下面那一行會寫出珠子的大小（Å 和 nm）和大約幾顆；跑完一次之後，還會寫一次重建大約要多久。在我們的測試電腦上，電腦模擬的球體一次重建：拉到 100 約 5 秒、71 約 20 秒、41 約一分半。</p></div></li>
       <li class="step"><div><h4 lang="en">Choose the runs and click Start</h4><h4 lang="zh-Hant">選次數，按 Start</h4>
@@ -808,7 +808,7 @@ html.js nav.toc { display: none; }
     </ol>
     <div class="tip">
       <h4 lang="en">Help it get better</h4><h4 lang="zh-Hant">幫它變得更好</h4>
-      <p lang="en">Once 3D is open in your copy, a curve whose model looks wrong is the most useful thing you can send us. Click <b class="ui">Report a problem</b>; your log goes with it.</p><p lang="zh-Hant">等 3D 在你的程式裡開放之後，一條建出來的模型看起來不對的曲線，是你能給我們的最有用的東西。按 <b class="ui">Report a problem</b>，你的 log 會一起送出。</p>
+      <p lang="en">A curve whose 3D model looks wrong is the most useful thing you can send us. Click <b class="ui">Report a problem</b>; your log goes with it.</p><p lang="zh-Hant">一條建出來的 3D 模型看起來不對的曲線，是你能給我們的最有用的東西。按 <b class="ui">Report a problem</b>，你的 log 會一起送出。</p>
     </div>
   </section>
 
